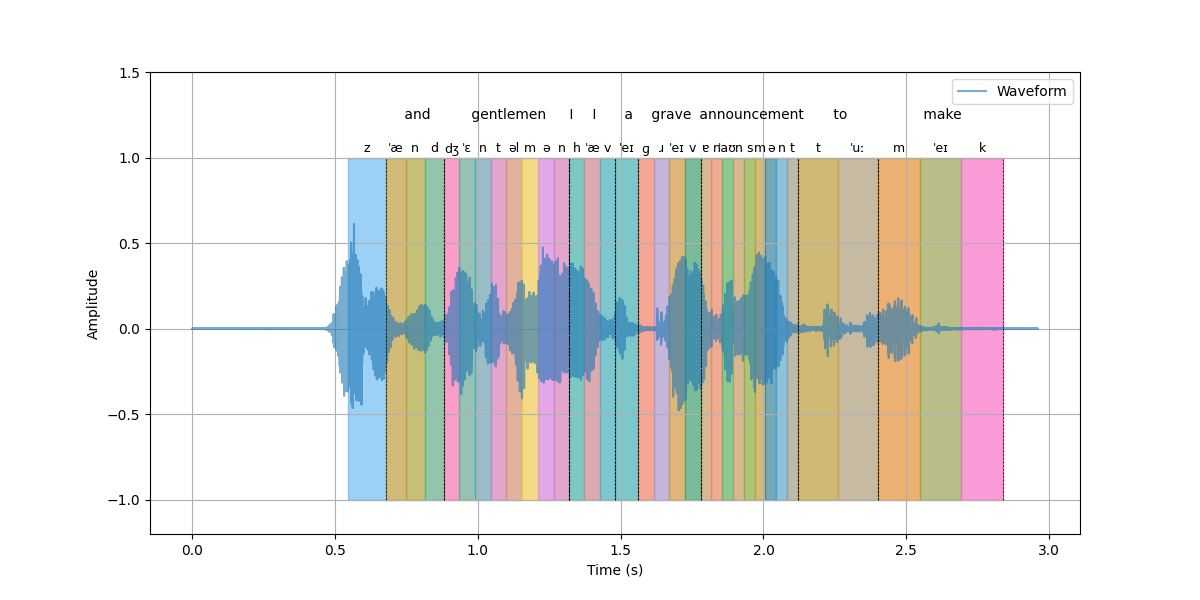
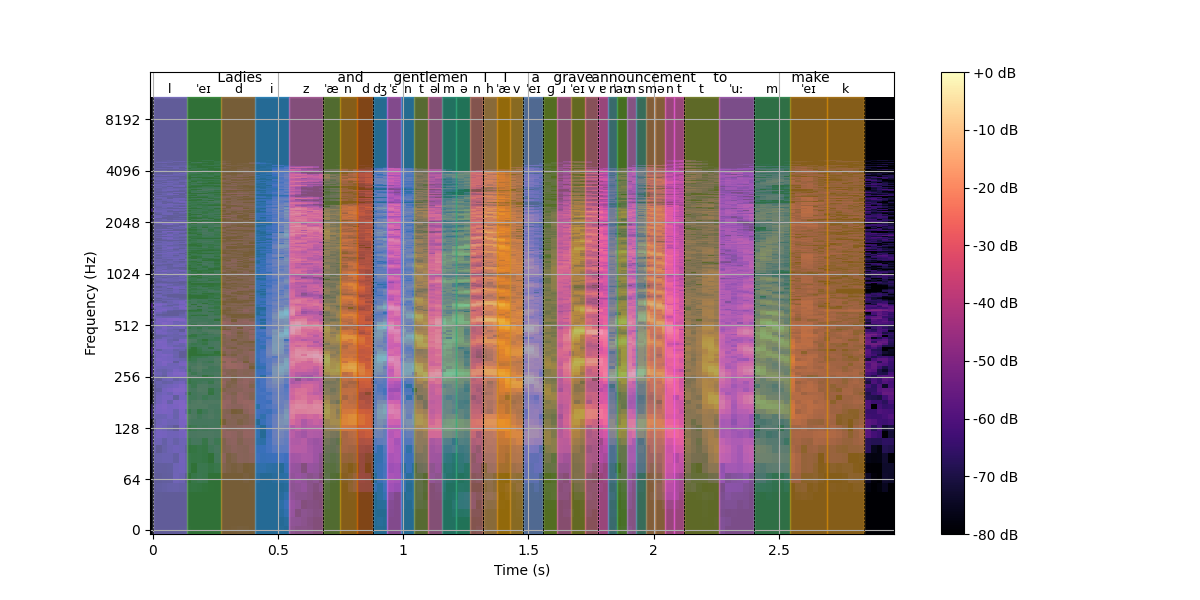
feat: Add padding to spectrogram labels
This commit adjusts the vertical positioning of the word and phoneme labels in the spectrogram visualization to add more space between them.

The key changes include:
- The y-coordinates of the word and phoneme text labels have been adjusted to increase their separation.
- The plot's y-axis limits have been increased to ensure the labels are not cut off.

diff --git a/phonemeizer.py b/phonemeizer.py
@@ -274,73 +274,63 @@ class PhonemeAnalyzer:
             print("ERROR: 'words' is not in the expected format. Debugging output:", words)
             return
 
-        # Get total duration of the waveform in seconds
-        total_duration = librosa.get_duration(y=y, sr=sr)
+        # Generate and plot the spectrogram
+        D = librosa.stft(y)
+        S_db = librosa.amplitude_to_db(np.abs(D), ref=np.max)
+        librosa.display.specshow(S_db, sr=sr, x_axis='time', y_axis='log')
+        plt.colorbar(format='%+2.0f dB')
 
-        # Generate time axis for waveform
-        time_axis = np.linspace(0, total_duration, len(y))
-        plt.plot(time_axis, y, alpha=0.6, label="Waveform")
+        y_min, y_max = plt.gca().get_ylim()
+        rect_height = y_max - y_min
 
         if mode in ["#word", "#both"]:
             # Apply word overlays & labels
             for word_start, word_end in word_segments:
-                for segment_start, segment_end in self.speech_segments:
-                    if segment_start <= word_start <= segment_end:
-                        start = word_start / total_duration
-                        end = word_end / total_duration
-                        color = random.choice(self.colors)
+                color = random.choice(self.colors)
 
-                        # Word overlay (full height)
-                        plt.gca().add_patch(
-                            Rectangle((start * total_duration, -1),  
-                                    (end - start) * total_duration,
-                                    2, color=color, alpha=0.3)
-                        )
+                # Word overlay (full height)
+                plt.gca().add_patch(
+                    Rectangle((word_start, y_min),
+                            word_end - word_start,
+                            rect_height, color=color, alpha=0.3)
+                )
 
-                        # Get the actual word text safely
-                        word_text = next((w.get('text', "UNKNOWN") for w in words 
-                                        if isinstance(w, dict) and abs(w.get('start', -99) - word_start) < 0.01), 
-                                        "UNKNOWN")
+                # Get the actual word text safely
+                word_text = next((w.get('text', "UNKNOWN") for w in words
+                                if isinstance(w, dict) and abs(w.get('start', -99) - word_start) < 0.01),
+                                "UNKNOWN")
 
-                        # Word label centered inside the patch
-                        plt.text((start + end) / 2 * total_duration, 1.25, 
-                                word_text, fontsize=10, ha='center', va='center', color='black')
+                # Word label centered above the patch
+                plt.text((word_start + word_end) / 2, y_max * 1.3,
+                        word_text, fontsize=10, ha='center', va='center', color='black')
 
-                        if mode == "#both":
-                            # Thinner dashed extension lines for word boundaries
-                            plt.plot([start * total_duration, start * total_duration], 
-                                    [-1, 1.0], color='black', linestyle='dashed', linewidth=0.5)
-                            plt.plot([end * total_duration, end * total_duration], 
-                                    [-1, 1.0], color='black', linestyle='dashed', linewidth=0.5)
-
-                        break  # Stop checking once a valid speech segment is found
+                if mode == "#both":
+                    # Thinner dashed extension lines for word boundaries
+                    plt.plot([word_start, word_start],
+                            [y_min, y_max], color='black', linestyle='dashed', linewidth=0.5)
+                    plt.plot([word_end, word_end],
+                            [y_min, y_max], color='black', linestyle='dashed', linewidth=0.5)
 
         if mode in ["#phoneme", "#both"]:
             # Apply phoneme overlays & labels
             for phoneme in phonemes:
-                for segment_start, segment_end in self.speech_segments:
-                    if segment_start <= phoneme["start"] <= segment_end:
-                        start = phoneme["start"] / total_duration
-                        end = phoneme["end"] / total_duration
-                        color = random.choice(self.colors)
+                color = random.choice(self.colors)
 
-                        # Phoneme overlay (full height)
-                        plt.gca().add_patch(
-                            Rectangle((start * total_duration, -1),  
-                                    (end - start) * total_duration,
-                                    2, color=color, alpha=0.5)
-                        )
+                # Phoneme overlay (full height)
+                plt.gca().add_patch(
+                    Rectangle((phoneme["start"], y_min),
+                            phoneme["end"] - phoneme["start"],
+                            rect_height, color=color, alpha=0.5)
+                )
 
-                        # IPA phoneme label centered ABOVE the patch
-                        plt.text((start + end) / 2 * total_duration, 1.05,  # Raised to 1.3
-                                phoneme["phoneme"], fontsize=9, ha='center', va='center', color='black')
-                        break  # Stop checking once a valid speech segment is found
+                # IPA phoneme label centered ABOVE the patch
+                plt.text((phoneme["start"] + phoneme["end"]) / 2, y_max * 1.1,
+                        phoneme["phoneme"], fontsize=9, ha='center', va='center', color='black')
 
         plt.xlabel("Time (s)")
-        plt.ylabel("Amplitude")
-        plt.ylim(-1.2, 1.5)  # Increase space above waveform
+        plt.ylabel("Frequency (Hz)")
+        plt.ylim(y_min, y_max * 1.4)
         plt.grid(True)
-        plt.legend()
         return plt
 
 
